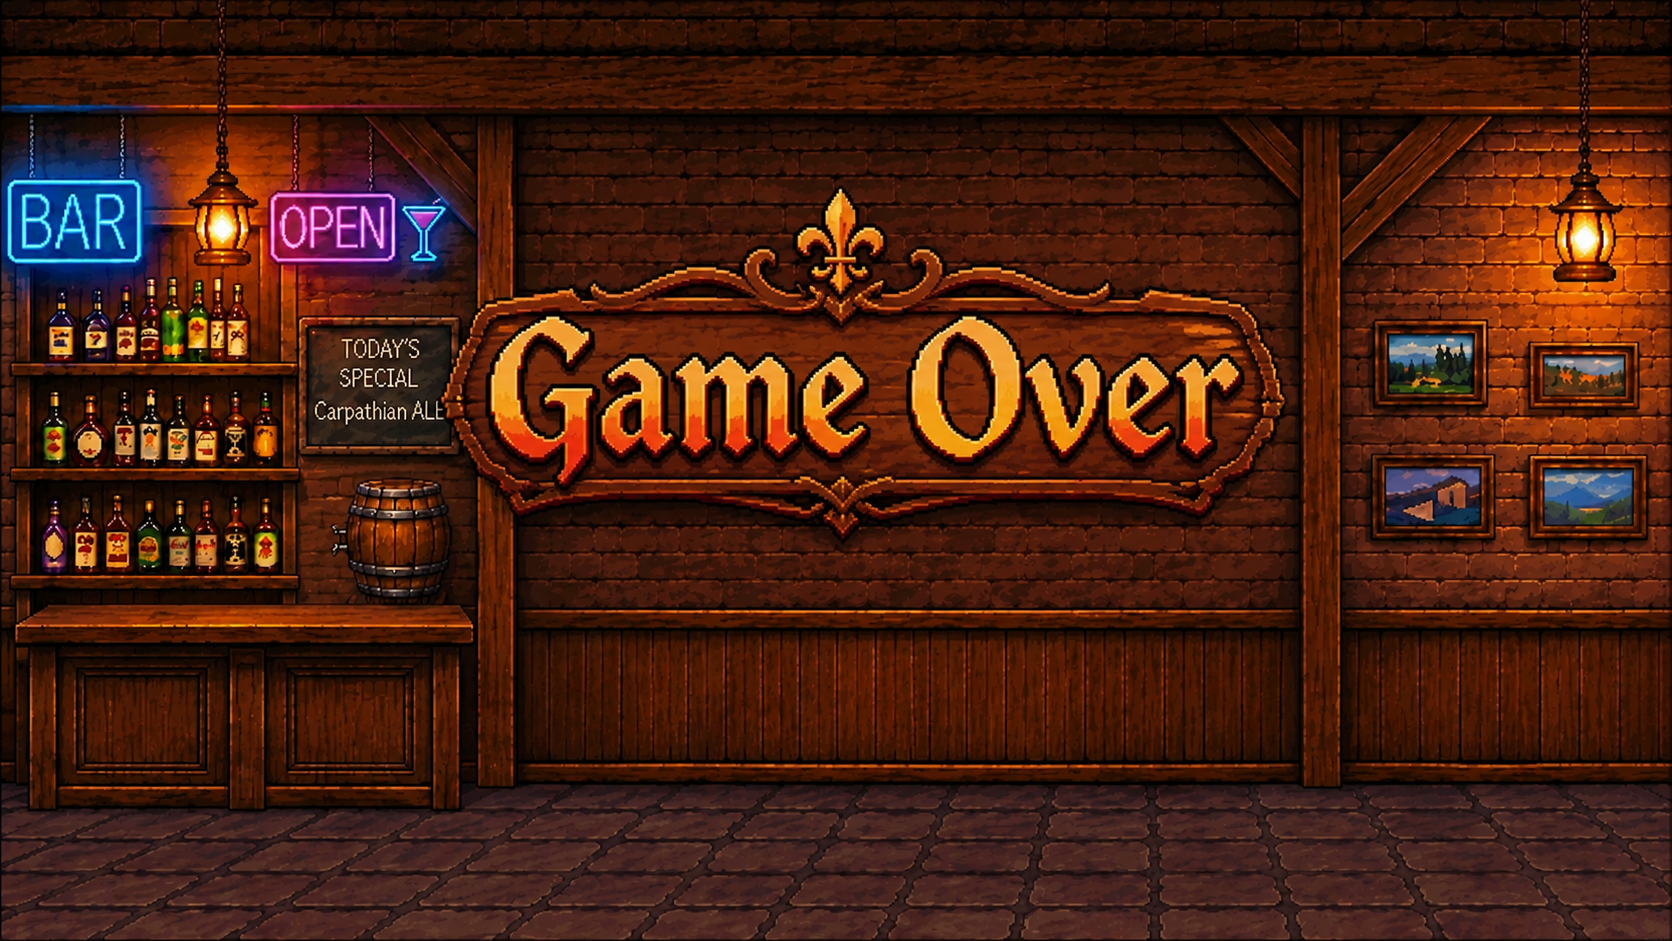
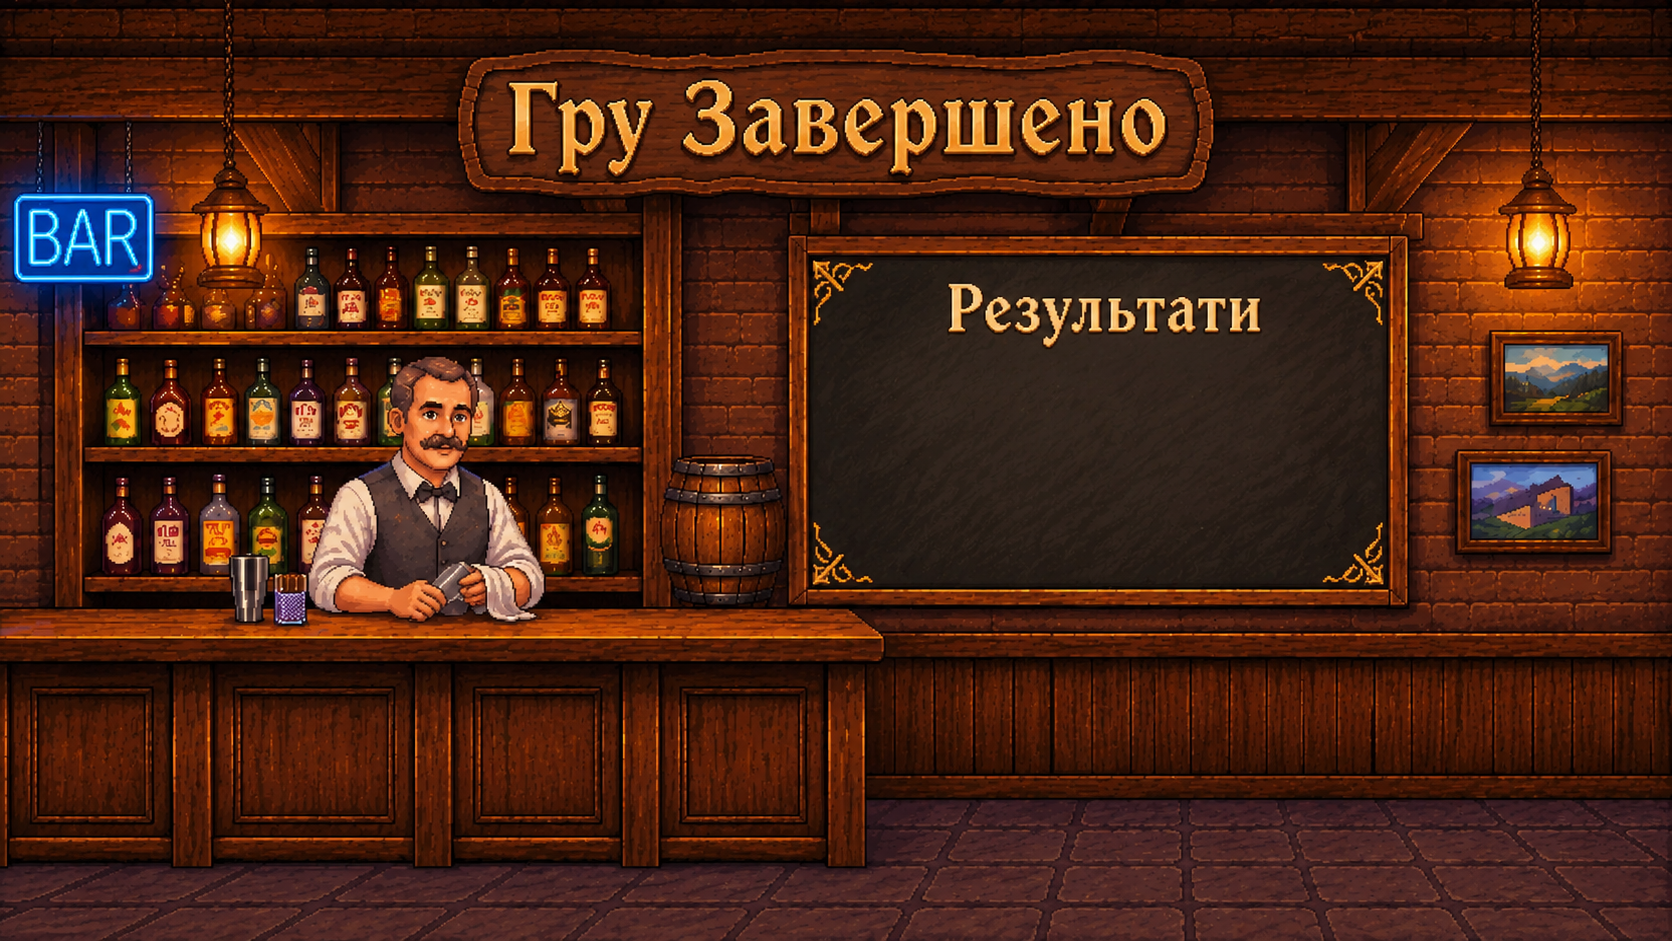
Зробили статистику і фінальну сцену

diff --git a/Classes/GameOverScene.h b/Classes/GameOverScene.h
@@ -6,12 +6,13 @@
 class GameOverScene : public cocos2d::Layer
 {
 public:
-    static cocos2d::Scene* createScene();
-    virtual bool init();
+	static cocos2d::Scene* createScene();
+	virtual bool init();
 
-    void menuBackCallback(cocos2d::Ref* pSender);
+	void menuRestartCallback(cocos2d::Ref* pSender);
+	void menuBackCallback(cocos2d::Ref* pSender);
 
-    CREATE_FUNC(GameOverScene);
+	CREATE_FUNC(GameOverScene);
 };
 
 #endif

diff --git a/Classes/StatsScene.h b/Classes/StatsScene.h
@@ -1,0 +1,17 @@
+#ifndef STATSSCENE_H
+#define STATSSCENE_H
+
+#include "cocos2d.h"
+
+class StatsScene : public cocos2d::Layer
+{
+public:
+	static cocos2d::Scene* createScene();
+	virtual bool init();
+
+	void menuBackCallback(cocos2d::Ref* pSender);
+
+	CREATE_FUNC(StatsScene);
+};
+
+#endif
